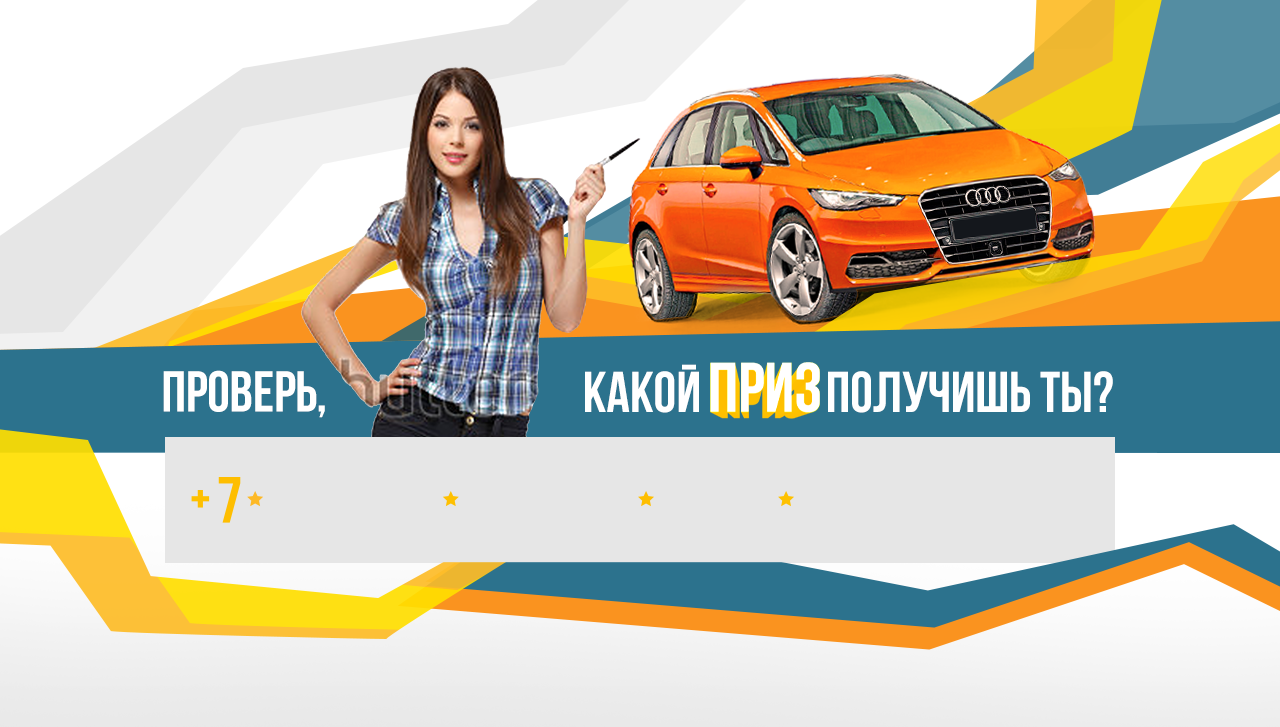
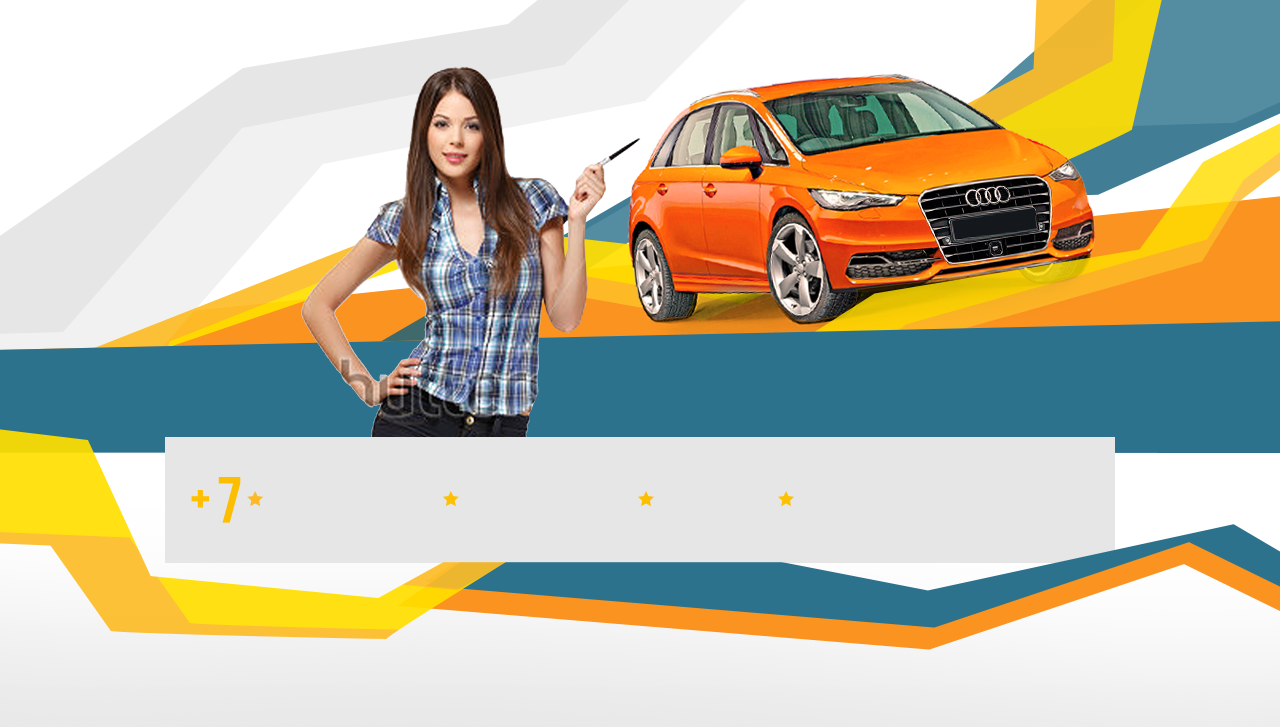
text on main page instead of image

Changed region(s): [[0.4375, 0.4842, 0.875, 0.575], [0.125, 0.4842, 0.25, 0.575]]

diff --git a/app/assets/stylesheets/main.css.scss b/app/assets/stylesheets/main.css.scss
@@ -14,6 +14,26 @@
 	left: 0px;
 }
 
+#main_background_title {
+	position: absolute;
+	left: 0px;
+	top: 360px;
+	font: 57px 'bebas_neue_cyrillic', 'DejaVu Serif', 'Serif', 'Arial';
+	color: white;
+
+	span {
+		display: inline-block;
+	}
+
+	#main_background_priz {
+		width: 111px;
+		height: 57px;
+		background: url("/images/main_page/priz.png") center top no-repeat;
+		position: relative;
+		top: 7px;
+	}
+}
+
 #main_grey_rectangle {
 	position: absolute;
 	top: 437px;
